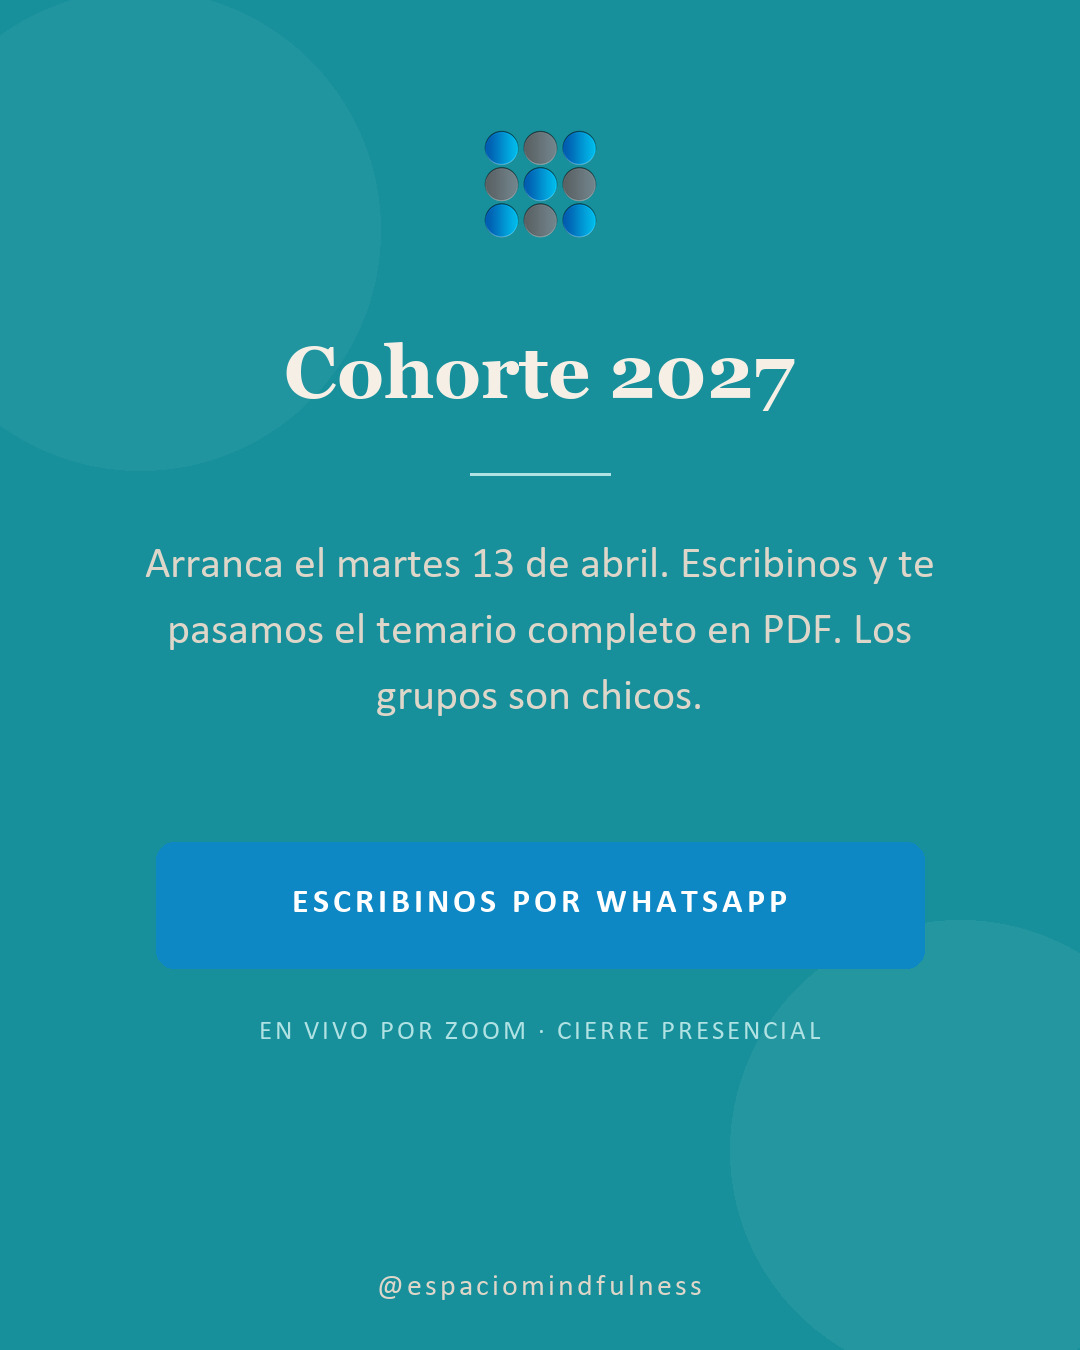
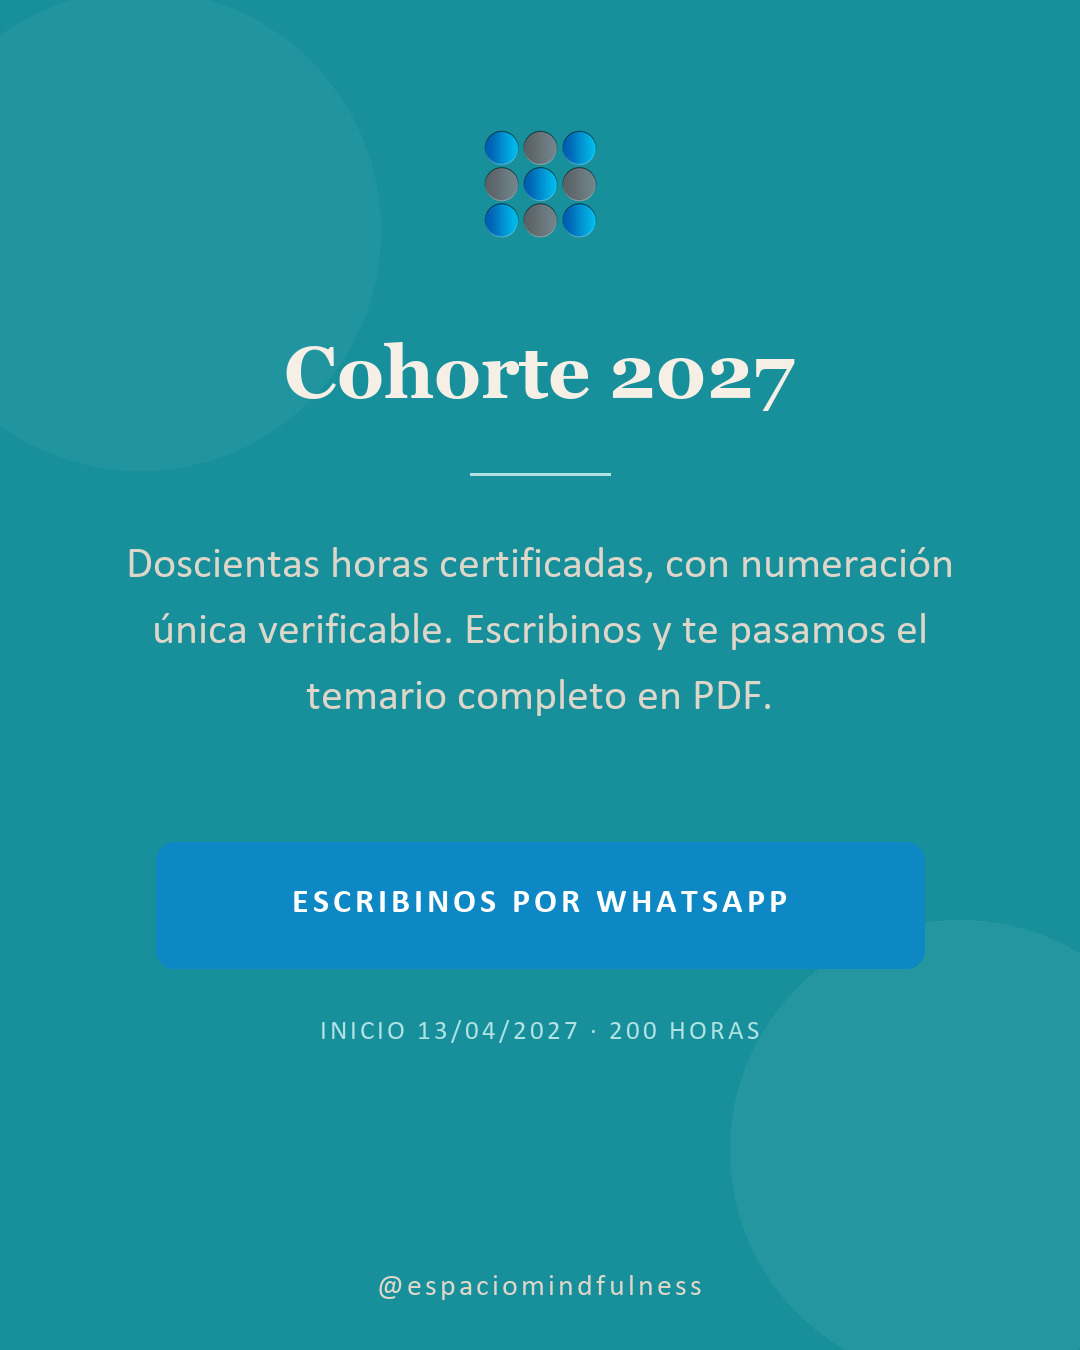
Diplomado: 200 horas certificadas

Changed region(s): [[0.1222, 0.4044, 0.8861, 0.5289], [0.2444, 0.7467, 0.7639, 0.7778]]

diff --git a/disenio/gen_correccion_cupo.py b/disenio/gen_correccion_cupo.py
@@ -30,8 +30,10 @@ Datos de las formaciones — FUENTE: las landings publicadas, chequeadas el
   presencial el sabado 18/12/2027 en Buenos Aires. 17 modulos en 5 bloques.
   Mindfulness clinico, ACT y Compasion bajo el marco de la Psicoterapia
   Basada en Procesos.
-  No se pone la carga horaria total: la landing dice 250 hs y el tablero
-  interno dice 200. Hasta que se resuelva, mejor no publicar el numero.
+  Carga horaria: 200 hs. Confirmado por Christian el 04/09/2026. OJO: la
+  landing todavia dice 250 hs certificadas — hay que corregirla ahi, porque
+  si el numero de la web y el de Instagram no coinciden, el que pregunta se
+  queda con la duda.
 """
 from piezas import *
 
@@ -138,9 +140,9 @@ def p51_diplomado():
             "de integración con casos reales.")),
         ("post51_diplomado_5.png", cierre_cta(
             "Cohorte 2027",
-            "Arranca el martes 13 de abril. Escribinos y te pasamos el "
-            "temario completo en PDF. Los grupos son chicos.",
-            "ESCRIBINOS POR WHATSAPP", "EN VIVO POR ZOOM · CIERRE PRESENCIAL")),
+            "Doscientas horas certificadas, con numeración única "
+            "verificable. Escribinos y te pasamos el temario completo en PDF.",
+            "ESCRIBINOS POR WHATSAPP", "INICIO 13/04/2027 · 200 HORAS")),
     ]
 
 

diff --git a/disenio/recaption_cupo.py b/disenio/recaption_cupo.py
@@ -85,7 +85,8 @@ NUEVAS = {
   "clínicos reales.\n\n"
   "Diecisiete módulos en cinco bloques, y uno de ellos es solo de integración "
   "clínica — que es donde suelen quedar cortas las formaciones que enseñan "
-  "los modelos por separado.\n\n"
+  "los modelos por separado. Doscientas horas certificadas, con numeración "
+  "única verificable.\n\n"
   "Escribinos y te pasamos el temario completo en PDF 🌿", HT_PRO),
 }
 
